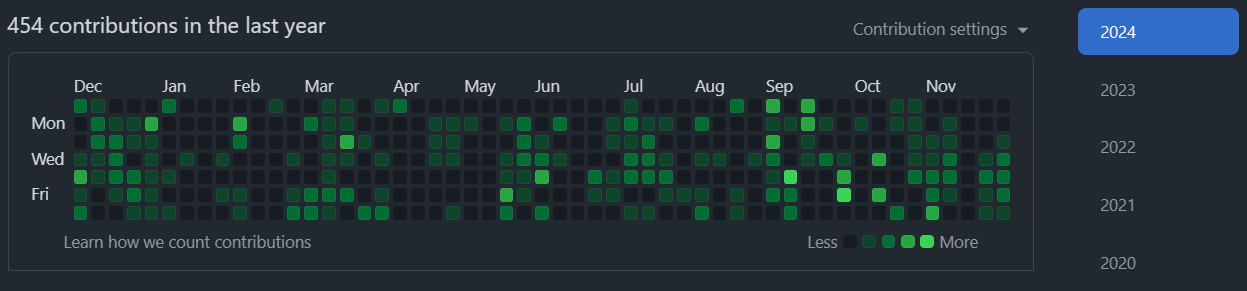
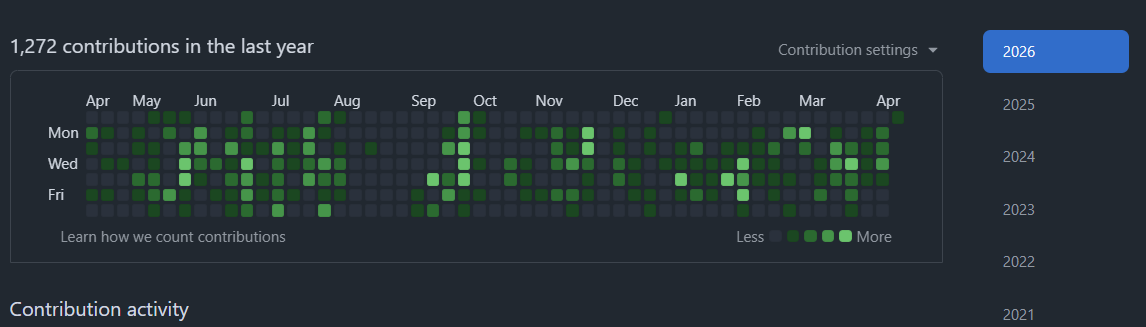
Refactor portfolio project sorting and update external links in ContactSection

diff --git a/src/components/portfolio/advanced-portfolio.jsx b/src/components/portfolio/advanced-portfolio.jsx
@@ -10,7 +10,10 @@ import {
     Menu, ArrowRight, Layers, Monitor, Wrench, Sparkles, Award
 } from 'lucide-react';
 
-const projects = [
+/** Display order: flagship work first, then the rest by original id. */
+const FEATURED_FIRST_ORDER = [13, 19, 12, 20];
+
+const projectsData = [
     {
         id: 1,
         title: "PDF Stamper Tool",
@@ -309,6 +312,14 @@ const projects = [
         featured: true,
     },
 ];
+
+const projects = [...projectsData].sort((a, b) => {
+    const rank = (id) => {
+        const i = FEATURED_FIRST_ORDER.indexOf(id);
+        return i === -1 ? 1000 + id : i;
+    };
+    return rank(a.id) - rank(b.id);
+});
 
 const CATEGORIES = ["All", "SaaS Platform", "Design Tool", "Engineering Tool", "Other"];
 
@@ -1259,14 +1270,14 @@ const ContactSection = () => {
                             <Button
                                 size="lg"
                                 className="bg-gradient-to-r from-green-600 to-emerald-600 hover:from-green-500 hover:to-emerald-500 text-white px-8 rounded-xl"
-                                onClick={() => window.open('https://www.upwork.com', '_blank')}
+                                onClick={() => window.open('https://www.upwork.com/freelancers/~01e48daa9d2ab5861a', '_blank')}
                             >
                                 Hire on Upwork
                             </Button>
                             <Button
                                 size="lg"
                                 className="bg-gradient-to-r from-purple-600 to-pink-600 hover:from-purple-500 hover:to-pink-500 text-white px-8 rounded-xl"
-                                onClick={() => window.open('https://www.fiverr.com', '_blank')}
+                                onClick={() => window.open('https://www.fiverr.com/khalid_abbasiu', '_blank')}
                             >
                                 View Fiverr Gigs
                             </Button>
